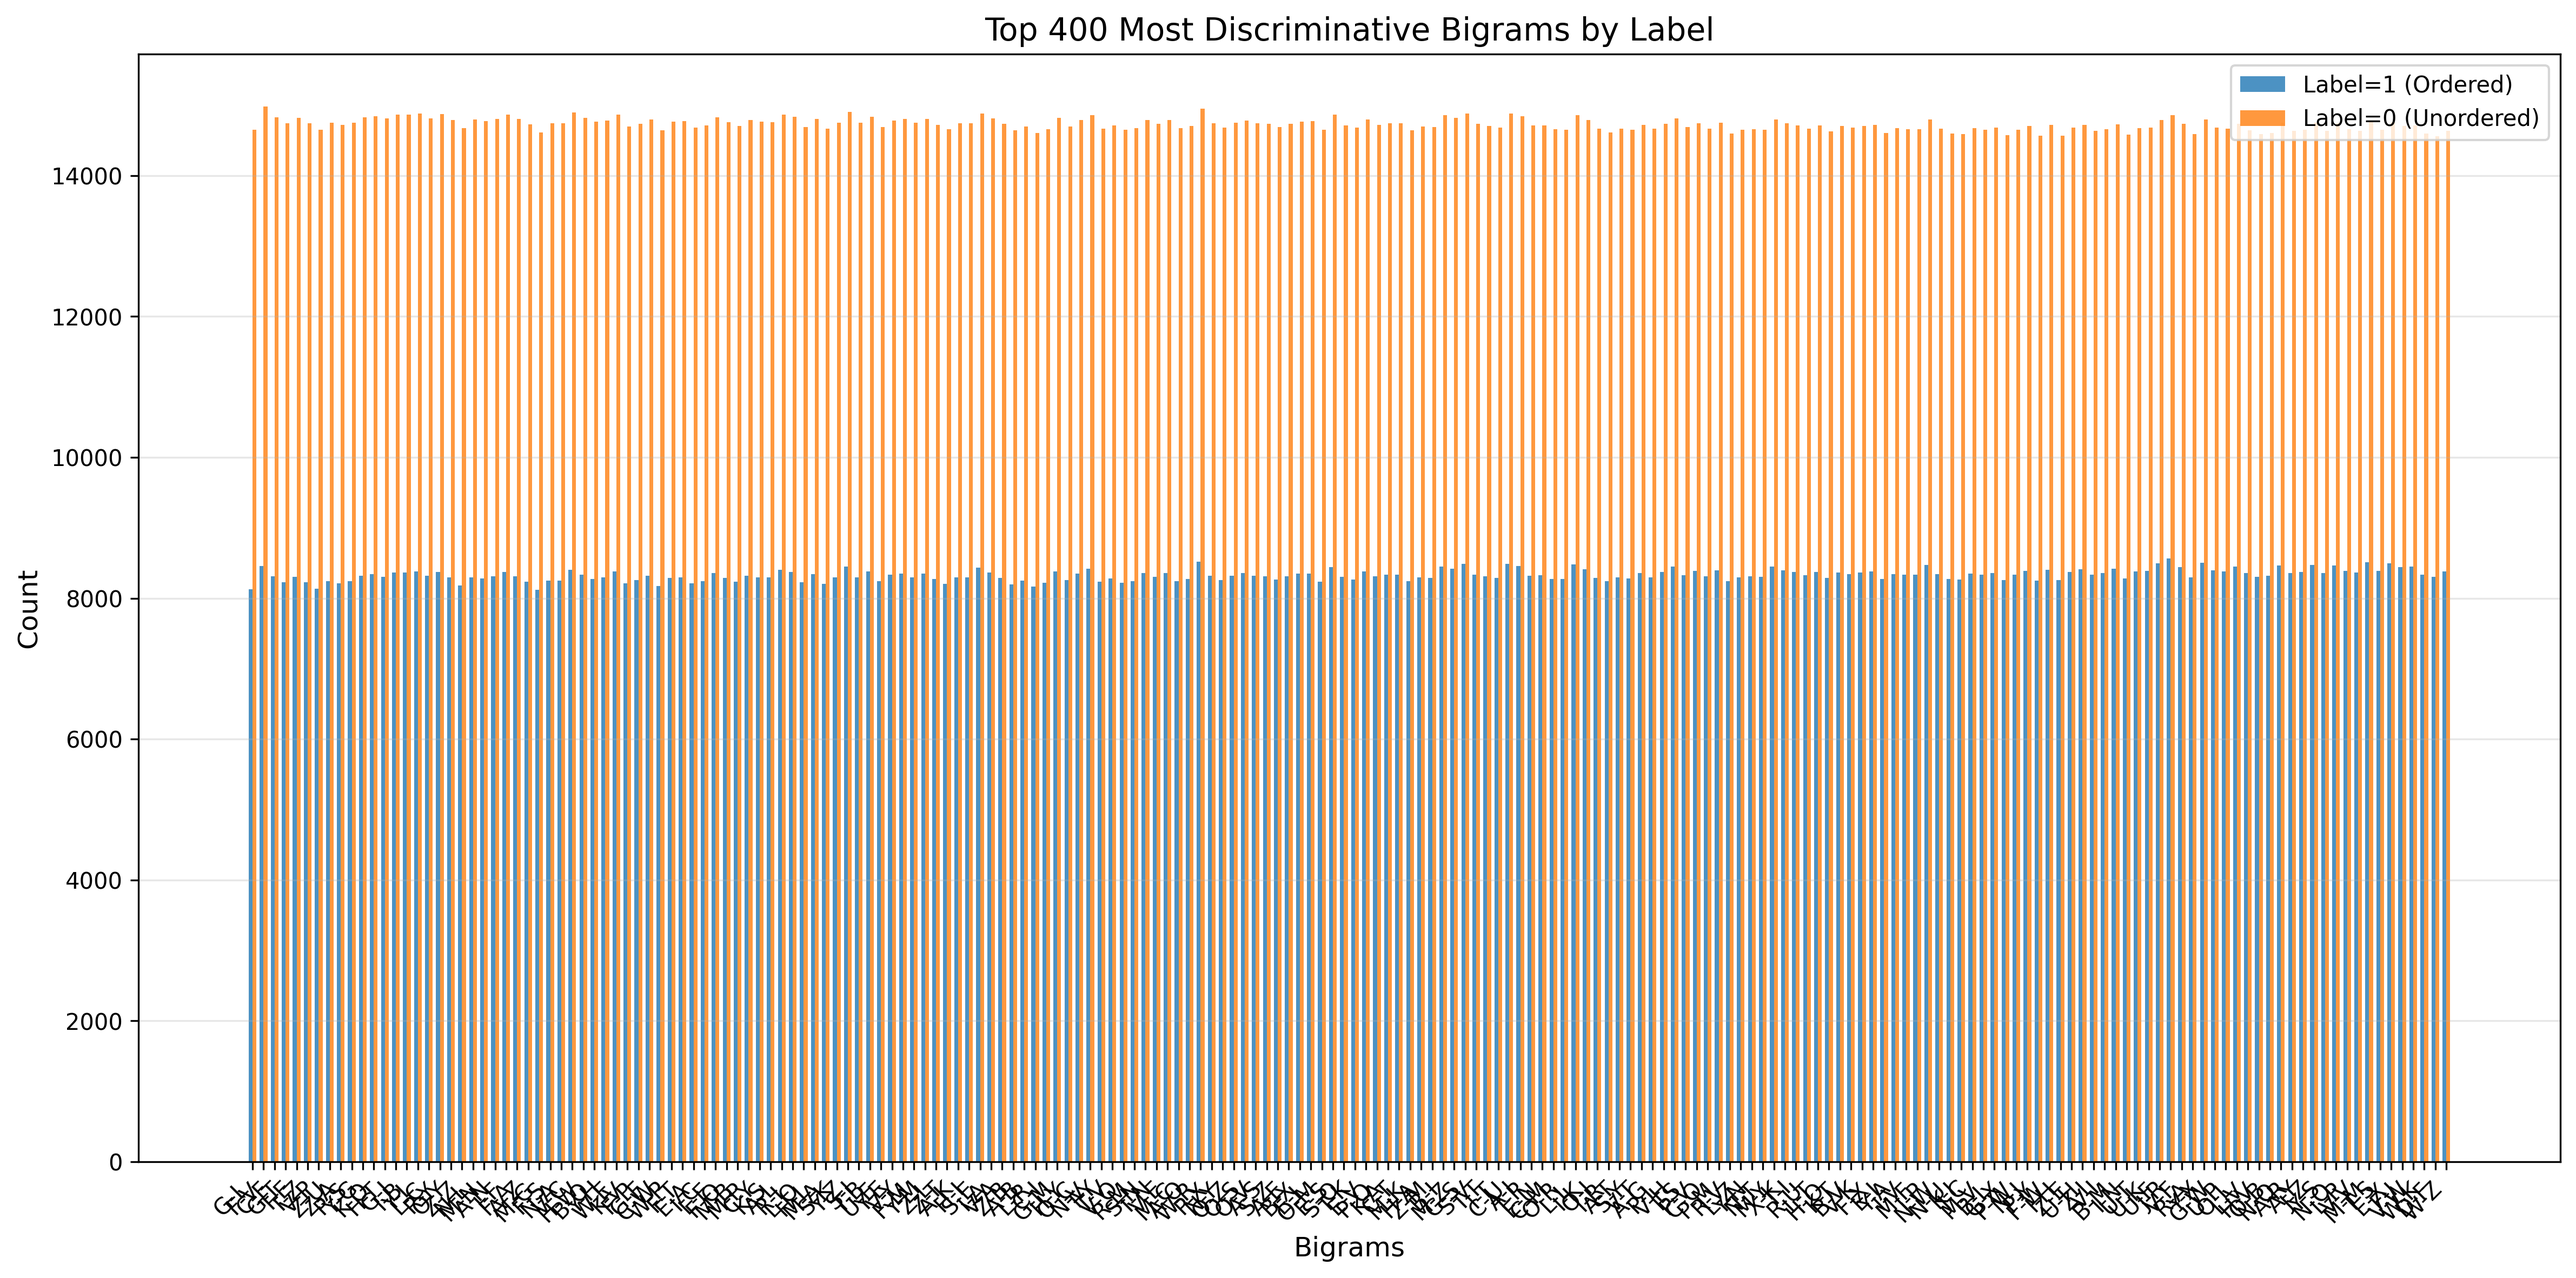
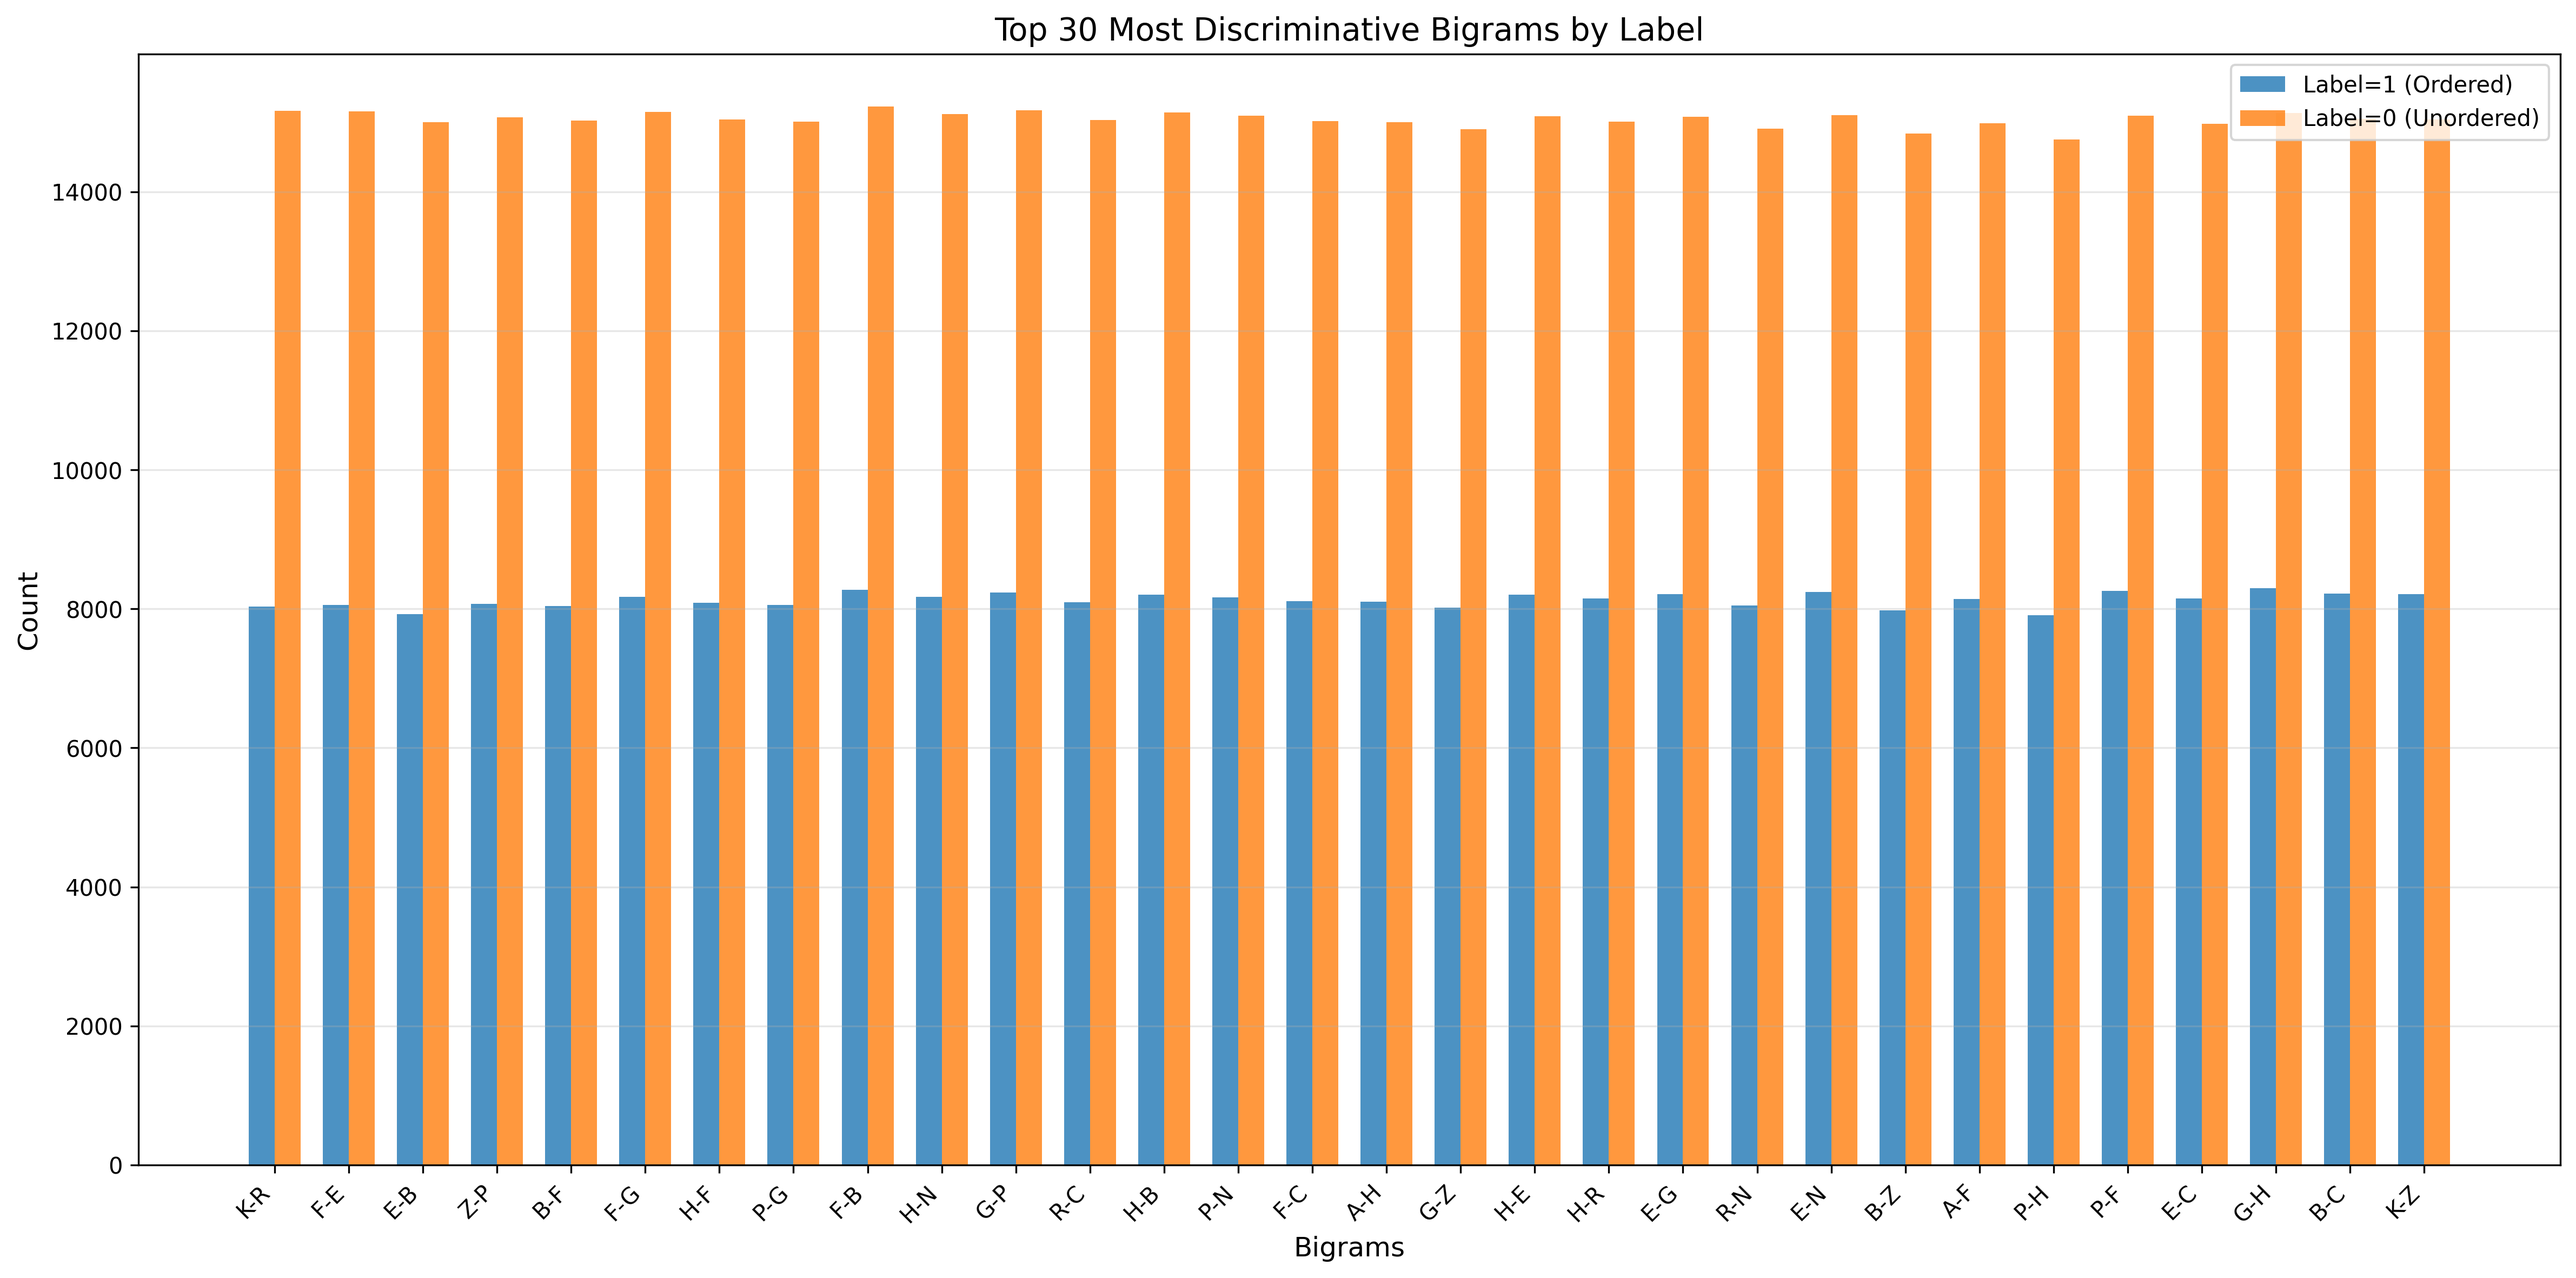
starting debugging for check correctness code

diff --git a/simulation/test_simulations_prob.py b/simulation/test_simulations_prob.py
@@ -169,15 +169,20 @@ def assign_outcome_positional_2_steps(
     already_splitted=False, 
     pr_1 = 0.7, 
     tolerance=True
+    debugging=False
     ) -> int:
     """
     function that, given a sequence, says 1 or 0, depending on ordering.
     This is a two steps implementation (in two subsequences).
+    If `debugging==True` gives extra values to check validity of code  
+    TODO/LIST:
+        * Better management of lags values (different strategies)
+        * Better management of hardcoded values
+        * Debugging values
+        * Checkpoint loadings (to have the possibility)
+        * .. 
     """
-    # test_seq = 'D7\x1fH5\x1fA7\x1fR5\x1fL1\x1fE4\x1fF8\x1fC0\x1fA8\x1fN0' # sequences[0]
-    # test_seq_splt = test_seq.split("\x1f")
-    # np.random.seed(seed=123456)
-
+    
     if len(lags) != 4:
         print("Attention, we need 4 different lags!\n")
         return
@@ -208,10 +213,11 @@ def assign_outcome_positional_2_steps(
     # We need to check both subsequences for lags
     # I need a function that given the firtst subsequence and lag, and K1, gives me the strategy to follow for the
     # second subsequence
-    strategy = do_strategy(test_seq_splt_1, [lag_1, lag_2], keys["strategy"])
+    info_2_debug_1, strategy = do_strategy(test_seq_splt_1, [lag_1, lag_2], keys["strategy"], debugging)
     # print(f"Strategy chosen: {strategy}\n")
 
-    order = do_order(test_seq_splt_2, lag_3, keys[strategy], strategy)
+    # Now, check the order looking at the second subsequence given the strategy
+    info_2_debug_2, order = do_order(test_seq_splt_2, lag_3, keys[strategy], strategy, debugging)
     if order:
         pr_to_simulate = pr_1
     else:
@@ -224,15 +230,24 @@ def assign_outcome_positional_2_steps(
         # Deterministic outcome
         outcome = int(np.where(pr_to_simulate==pr_1, 1, 0))
     
-        # Returning more, to be able to inspect results
-    results_2_debug = {
-            'outcome':[outcome],
-            'seq':seq,
-            'pr_2_sim':[pr_to_simulate],
-            # 'lagged_keys':[are_lagged_keys],
-            # 'all_ordered':[all_ordered]
-        }
-    
+    # Returning more, to be able to inspect results
+    if not debugging:
+        results_2_debug = {
+                'outcome':[outcome],
+                'seq':seq,
+                'pr_2_sim':[pr_to_simulate]
+            }
+    else:
+        results_2_debug = {
+                'outcome':[outcome],
+                'seq':seq,
+                'pr_2_sim':[pr_to_simulate],
+                'lagged_keys':[info_2_debug_1['lagged_1'], info_2_debug_2['lagged_2'], info_2_debug_2['lagged_3']],
+                'all_ordered':[info_2_debug_1['order'], info_2_debug_2['final_order']],
+                'lags':lags
+            }
+
+
     return(results_2_debug)
     
 # seq4 = ['A', 'A', 'C', 'D', 'B', 'A', 'Z', 'H', 'C']
@@ -252,7 +267,7 @@ n_tot = n_0s + n_1s
 n_train = n_tot * 0.80 # 80% of n_tot
 n_val = n_tot * 0.10
 n_test = n_tot * 0.10
-generate = True
+generate = False
 parallel = True
 #sum([n_train, n_test, n_val]) == n_tot
 
@@ -293,14 +308,14 @@ if generate:
         sequences = list(dict.fromkeys(all_sequences))[:n_seq]
 else:
     # Load pre-generated sequences (from previous runs)
-    sequences = pd.read_csv("data/simulation/X_test_5.csv")["Sequences"].tolist()
-    labels = pd.read_csv("data/simulation/y_test_5.csv")["Outcome"].tolist()
+    sequences = pd.read_csv("data/simulation/X_test_10.csv")["Sequences"].tolist()
+    labels = pd.read_csv("data/simulation/y_test_10.csv")["Outcome"].tolist()
 
-    sequences += pd.read_csv("data/simulation/X_train_5.csv")["Sequences"].tolist()
-    labels += pd.read_csv("data/simulation/y_train_5.csv")["Outcome"].tolist()
+    sequences += pd.read_csv("data/simulation/X_train_10.csv")["Sequences"].tolist()
+    labels += pd.read_csv("data/simulation/y_train_10.csv")["Outcome"].tolist()
 
-    sequences += pd.read_csv("data/simulation/X_val_5.csv")["Sequences"].tolist()
-    labels += pd.read_csv("data/simulation/y_val_5.csv")["Outcome"].tolist()
+    sequences += pd.read_csv("data/simulation/X_val_10.csv")["Sequences"].tolist()
+    labels += pd.read_csv("data/simulation/y_val_10.csv")["Outcome"].tolist()
 
 n_seq = len(sequences)  
 set_seq = set(sequences)

diff --git a/simulation/do_strategy.py b/simulation/do_strategy.py
@@ -12,43 +12,56 @@ def do_chek_order(are_lagged_keys, key_letters, cycle):
                         tol=False
                     else:
                         all_ordered[pos]=False
+    
     if any(all_ordered):
         # If there is at least one true, then there is one ordered sequence=> high probabilities of 1
-        return True
+        return all_ordered, True
     else:
         # If there is no true, then there are no one ordered sequence=> low probabilities of 1
-        return False
+        return all_ordered, False
 
-def do_strategy(subseq, lags1_2, key_letters, cycle=False):
+def do_strategy(subseq, lags1_2, key_letters, cycle=False, debugging=False):
     # Check if there are key letters separated by lags.
     lag_1, lag_2 = lags1_2
     are_lagged_keys_1 = check_lag(subseq, key_letters, lag_1)
     are_lagged_keys_2 = check_lag(subseq, key_letters, lag_2)
     
+    
     # Check the order depending on the lagged keys
     if are_lagged_keys_1 and are_lagged_keys_2:
-        first_order = do_chek_order(are_lagged_keys_1, key_letters, cycle)
-        second_order = do_chek_order(are_lagged_keys_2, key_letters, cycle)
+        all_ordered_1, first_order = do_chek_order(are_lagged_keys_1, key_letters, cycle)
+        all_ordered_2, second_order = do_chek_order(are_lagged_keys_2, key_letters, cycle)
     elif are_lagged_keys_1:
-        first_order = do_chek_order(are_lagged_keys_1, key_letters, cycle)
+        all_ordered_1, first_order = do_chek_order(are_lagged_keys_1, key_letters, cycle)
         second_order = False
     elif are_lagged_keys_2:
         first_order = False
-        second_order = do_chek_order(are_lagged_keys_2, key_letters, cycle)
+        all_ordered_2, second_order = do_chek_order(are_lagged_keys_2, key_letters, cycle)
     else:
-        return "no_order"
+        all_ordered_1, all_ordered_2 = False, False
+        first_order = False
+        second_order = False
+
+    if debugging:
+        info_2_debug = dict(
+            lagged_1 = are_lagged_keys_1,
+            lagged_2 = are_lagged_keys_2,
+            order = [all_ordered_1, all_ordered_2]
+            )
+    else:
+        info_2_debug = None
 
     # Let us decide the strategy
     if first_order and second_order:
-        return "both_orders"
+        return info_2_debug, "both_orders"
     elif first_order:
-        return "first_order"
+        return info_2_debug, "first_order"
     elif second_order:
-        return "second_order"
+        return info_2_debug, "second_order"
     else:
-        return "no_order"
+        return info_2_debug, "no_order"
 
-def do_order(subseq,lag, key_letters, strategy, cycle=False):
+def do_order(subseq,lag, key_letters, strategy, cycle=False, debugging=False):
     """on the second subsequence, check the order according to lag and key_letters and strategy"""
     
     if strategy == "no_order":
@@ -74,9 +87,18 @@ def do_order(subseq,lag, key_letters, strategy, cycle=False):
         return
 
     if are_lagged_keys:
-        is_ordered = do_chek_order(are_lagged_keys, key_letters, cycle)
-        if is_ordered:
-            return True
+        all_ordered_3, is_ordered = do_chek_order(are_lagged_keys, key_letters, cycle)
+
+        if debugging:
+            info_2_debug = dict(
+                lagged_3 = are_lagged_keys,
+                final_order =  all_ordered_3
+            )
+        else: 
+            info_2_debug = None
+
+
+        return info_2_debug, is_ordered
     
     return False
     

diff --git a/simulation/stat_test.py b/simulation/stat_test.py
@@ -6,7 +6,7 @@ from sklearn.metrics import roc_auc_score, f1_score
 
 
 # Reading data - already splitted!
-csv_number = 9
+csv_number = 10
 X_train = pd.read_csv(f"data/simulation/X_train_{csv_number}.csv", na_values=['', 'None', 'NaN', 'na', 'nan']).fillna('')
 y_train = pd.read_csv(f"data/simulation/y_train_{csv_number}.csv", na_values=['', 'None', 'NaN', 'na', 'nan']).fillna('')
 X_val = pd.read_csv(f"data/simulation/X_val_{csv_number}.csv", na_values=['', 'None', 'NaN', 'na', 'nan']).fillna('')
